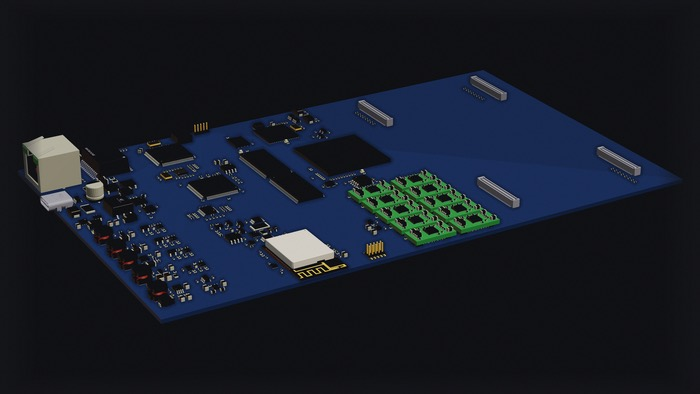
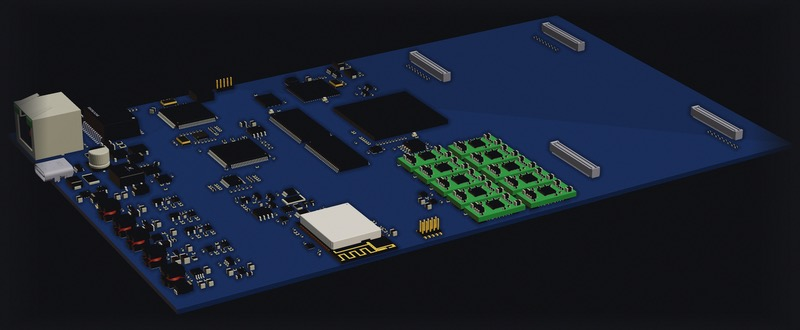
product: the render is a right-hand block on desktop, not a full-width band
Pouya's call. Desktop now puts the copy left and the board right in a two-column
grid (1fr / 0.88fr), stacking below 900px. The spec tiles stay full width under both.

Two things the narrower column forced. The 16:9 canvas wasted a lot of vertical
space, because the board's silhouette at this angle is far wider than it is tall, so
the canvas is now 1600x660 with the framing re-solved for it: x 16..1584, y 31..629,
still fully in bounds but the board fills the block instead of floating in it. And
the fixed <picture> source swap became wrong for a column that is 44vw on desktop
and 100vw on phones, so it is srcset + sizes now and the browser picks.

112 KB, 45 KB small source.

Claude-Session: https://claude.ai/code/session_01NAWjwPnMfhmibbub5iKyLE

Changed region(s): [[0.0, 0.0303, 0.99, 0.9697], [0.87, 0.4848, 0.9, 0.5152], [0.42, 0.5152, 0.45, 0.5455]]

diff --git a/product.html b/product.html
@@ -260,9 +260,18 @@
   /* Board render. Deliberately matte and orthographic so it reads as an assembly view
      rather than a product shot, and captioned as a render so the image never has to be
      taken on trust. */
-  .board-shot { margin: 0 0 30px; border: 1px solid var(--border); border-radius: 12px;
+  /* Desktop: copy left, board right. It is a block in the layout, not a full-width
+     band across the page. Stacks below 900px. */
+  .ov-intro { display: grid; grid-template-columns: minmax(0, 1fr) minmax(0, 0.88fr);
+    gap: 30px; align-items: start; margin-bottom: 26px; }
+  .ov-intro > div { min-width: 0; }
+  .ov-intro p { max-width: none; }
+  @media (max-width: 900px) {
+    .ov-intro { grid-template-columns: 1fr; gap: 22px; }
+  }
+  .board-shot { margin: 0; border: 1px solid var(--border); border-radius: 12px;
     background: var(--surface); overflow: hidden; }
-  .board-shot img { display: block; width: 100%; height: auto; aspect-ratio: 1600 / 900; }
+  .board-shot img { display: block; width: 100%; height: auto; aspect-ratio: 1600 / 660; }
   .panel-cta { margin-top: 44px; padding-top: 26px; border-top: 1px solid var(--border);
     display: flex; align-items: center; gap: 18px; flex-wrap: wrap; }
   .panel-cta p { color: var(--text-dim); margin: 0; }
@@ -481,21 +490,25 @@
 
   <section class="panel" id="panel-o" role="tabpanel" aria-labelledby="tab-o">
     <div style="padding-top:30px">
-      <figure class="board-shot">
-        <picture>
-          <source media="(max-width: 700px)" srcset="/board-augur-one-700.jpg">
-          <img src="/board-augur-one.jpg" width="1600" height="900" decoding="async"
+      <div class="ov-intro">
+        <div>
+          <h2>The rig you would have built by hand</h2>
+          <p class="dim">Testing a control loop means having a plant to close it against, so
+          someone builds one: a sensor breakout on a jumper harness, a motor with a load on it, a
+          bench supply, a logic analyzer, and a person to power-cycle the whole thing when the DUT
+          locks up.</p>
+          <p class="dim" style="margin-top:10px">Augur One is that bench as one board. Your DUT
+          board plugs in, and the world your firmware reads is generated in hardware and driven
+          from the network.</p>
+        </div>
+        <figure class="board-shot">
+          <img src="/board-augur-one.jpg"
+               srcset="/board-augur-one-700.jpg 800w, /board-augur-one.jpg 1600w"
+               sizes="(max-width: 900px) 100vw, 44vw"
+               width="1600" height="660" decoding="async"
                alt="Augur One at a low angle: Ethernet and USB-C at the left edge, power section along the near edge, FPGA and memory across the centre, ten analog modules fitted right of centre, and the DUT connector strips along the far edge.">
-        </picture>
-      </figure>
-      <h2>The rig you would have built by hand</h2>
-      <p class="dim">Testing a control loop means having a plant to close it against, so someone
-      builds one: a sensor breakout on a jumper harness, a motor with a load on it, a bench
-      supply, a logic analyzer, and a person to power-cycle the whole thing when the DUT locks
-      up.</p>
-      <p class="dim" style="margin-top:10px">Augur One is that bench as one board. Your DUT board
-      plugs in, and the world your firmware reads is generated in hardware and driven from the
-      network.</p>
+        </figure>
+      </div>
       <div class="iface top3">
         <div class="ifitem"><b>210 x 130 mm</b><span>one base board</span></div>
         <div class="ifitem"><b>One Cat-6</b><span>power and network</span></div>

diff --git a/v19/product.html b/v19/product.html
@@ -260,9 +260,18 @@
   /* Board render. Deliberately matte and orthographic so it reads as an assembly view
      rather than a product shot, and captioned as a render so the image never has to be
      taken on trust. */
-  .board-shot { margin: 0 0 30px; border: 1px solid var(--border); border-radius: 12px;
+  /* Desktop: copy left, board right. It is a block in the layout, not a full-width
+     band across the page. Stacks below 900px. */
+  .ov-intro { display: grid; grid-template-columns: minmax(0, 1fr) minmax(0, 0.88fr);
+    gap: 30px; align-items: start; margin-bottom: 26px; }
+  .ov-intro > div { min-width: 0; }
+  .ov-intro p { max-width: none; }
+  @media (max-width: 900px) {
+    .ov-intro { grid-template-columns: 1fr; gap: 22px; }
+  }
+  .board-shot { margin: 0; border: 1px solid var(--border); border-radius: 12px;
     background: var(--surface); overflow: hidden; }
-  .board-shot img { display: block; width: 100%; height: auto; aspect-ratio: 1600 / 900; }
+  .board-shot img { display: block; width: 100%; height: auto; aspect-ratio: 1600 / 660; }
   .panel-cta { margin-top: 44px; padding-top: 26px; border-top: 1px solid var(--border);
     display: flex; align-items: center; gap: 18px; flex-wrap: wrap; }
   .panel-cta p { color: var(--text-dim); margin: 0; }
@@ -481,21 +490,25 @@
 
   <section class="panel" id="panel-o" role="tabpanel" aria-labelledby="tab-o">
     <div style="padding-top:30px">
-      <figure class="board-shot">
-        <picture>
-          <source media="(max-width: 700px)" srcset="/board-augur-one-700.jpg">
-          <img src="/board-augur-one.jpg" width="1600" height="900" decoding="async"
+      <div class="ov-intro">
+        <div>
+          <h2>The rig you would have built by hand</h2>
+          <p class="dim">Testing a control loop means having a plant to close it against, so
+          someone builds one: a sensor breakout on a jumper harness, a motor with a load on it, a
+          bench supply, a logic analyzer, and a person to power-cycle the whole thing when the DUT
+          locks up.</p>
+          <p class="dim" style="margin-top:10px">Augur One is that bench as one board. Your DUT
+          board plugs in, and the world your firmware reads is generated in hardware and driven
+          from the network.</p>
+        </div>
+        <figure class="board-shot">
+          <img src="/board-augur-one.jpg"
+               srcset="/board-augur-one-700.jpg 800w, /board-augur-one.jpg 1600w"
+               sizes="(max-width: 900px) 100vw, 44vw"
+               width="1600" height="660" decoding="async"
                alt="Augur One at a low angle: Ethernet and USB-C at the left edge, power section along the near edge, FPGA and memory across the centre, ten analog modules fitted right of centre, and the DUT connector strips along the far edge.">
-        </picture>
-      </figure>
-      <h2>The rig you would have built by hand</h2>
-      <p class="dim">Testing a control loop means having a plant to close it against, so someone
-      builds one: a sensor breakout on a jumper harness, a motor with a load on it, a bench
-      supply, a logic analyzer, and a person to power-cycle the whole thing when the DUT locks
-      up.</p>
-      <p class="dim" style="margin-top:10px">Augur One is that bench as one board. Your DUT board
-      plugs in, and the world your firmware reads is generated in hardware and driven from the
-      network.</p>
+        </figure>
+      </div>
       <div class="iface top3">
         <div class="ifitem"><b>210 x 130 mm</b><span>one base board</span></div>
         <div class="ifitem"><b>One Cat-6</b><span>power and network</span></div>
